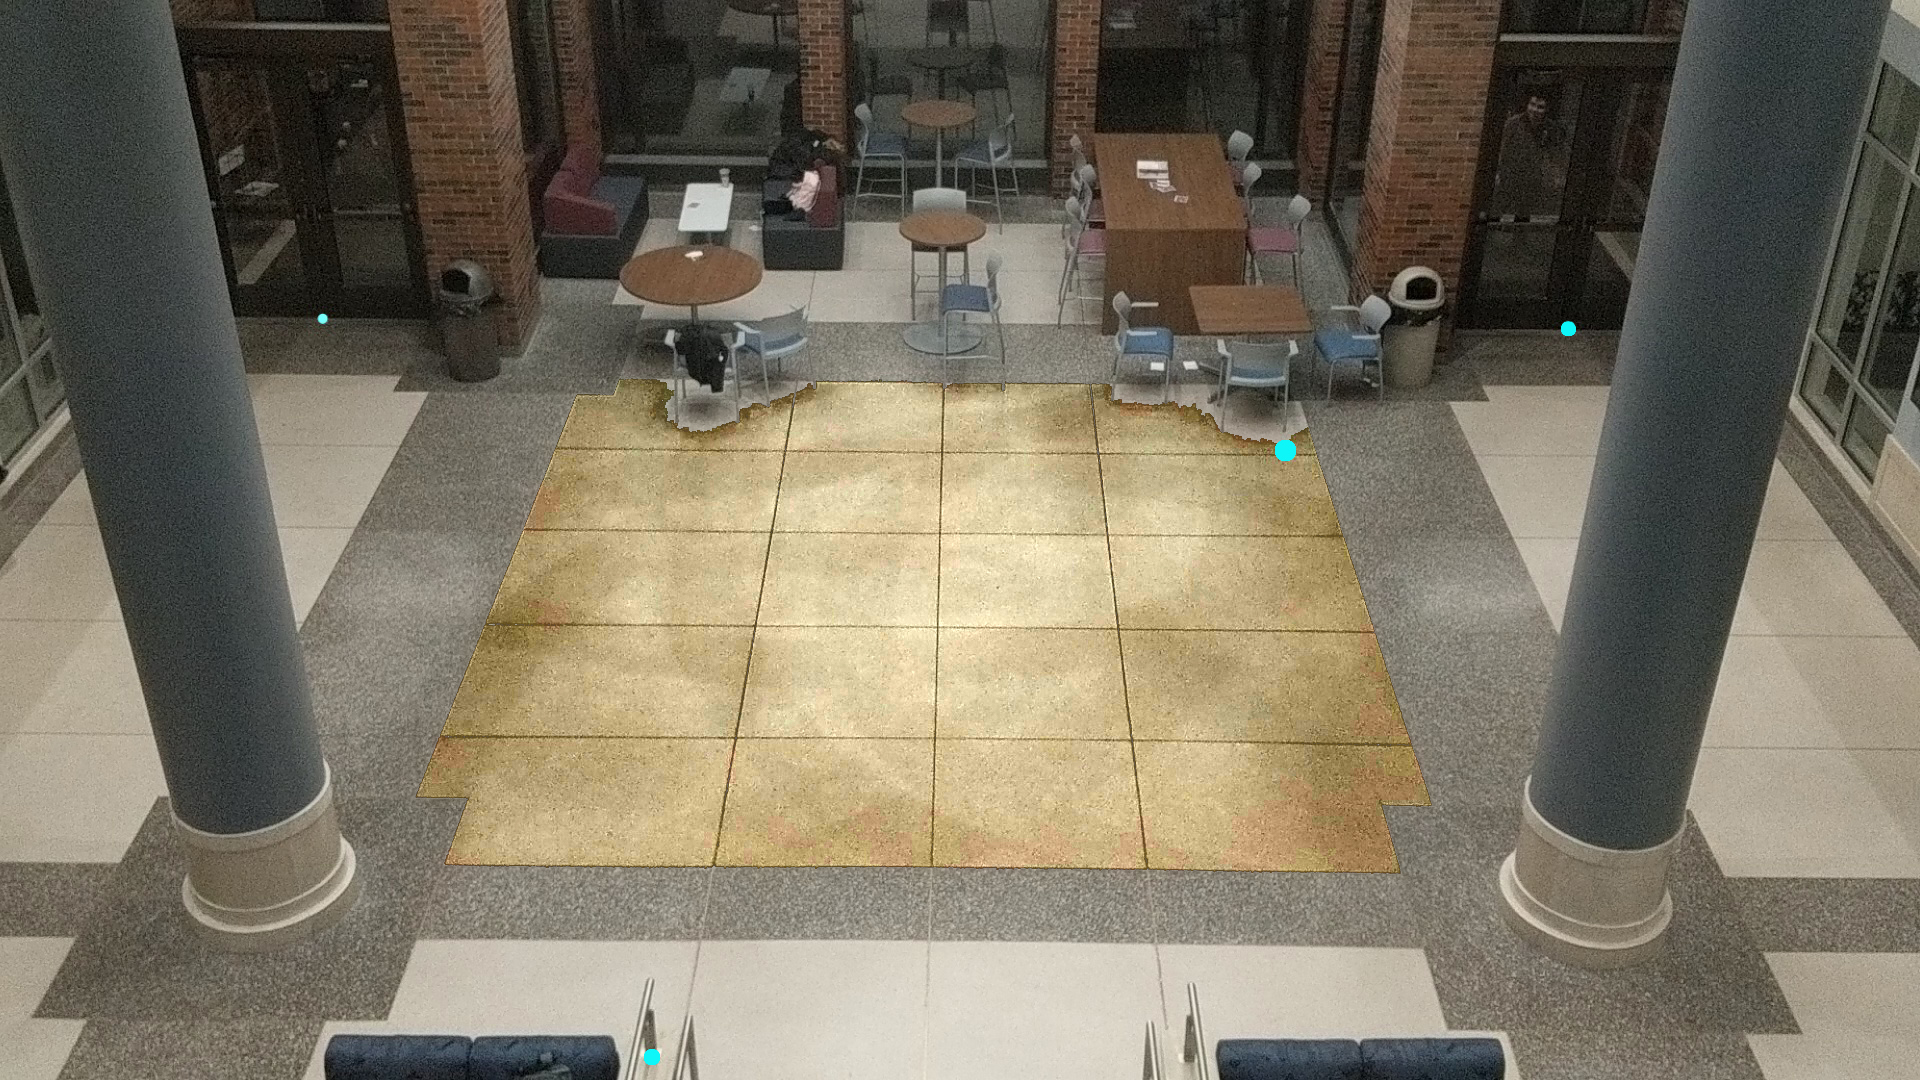
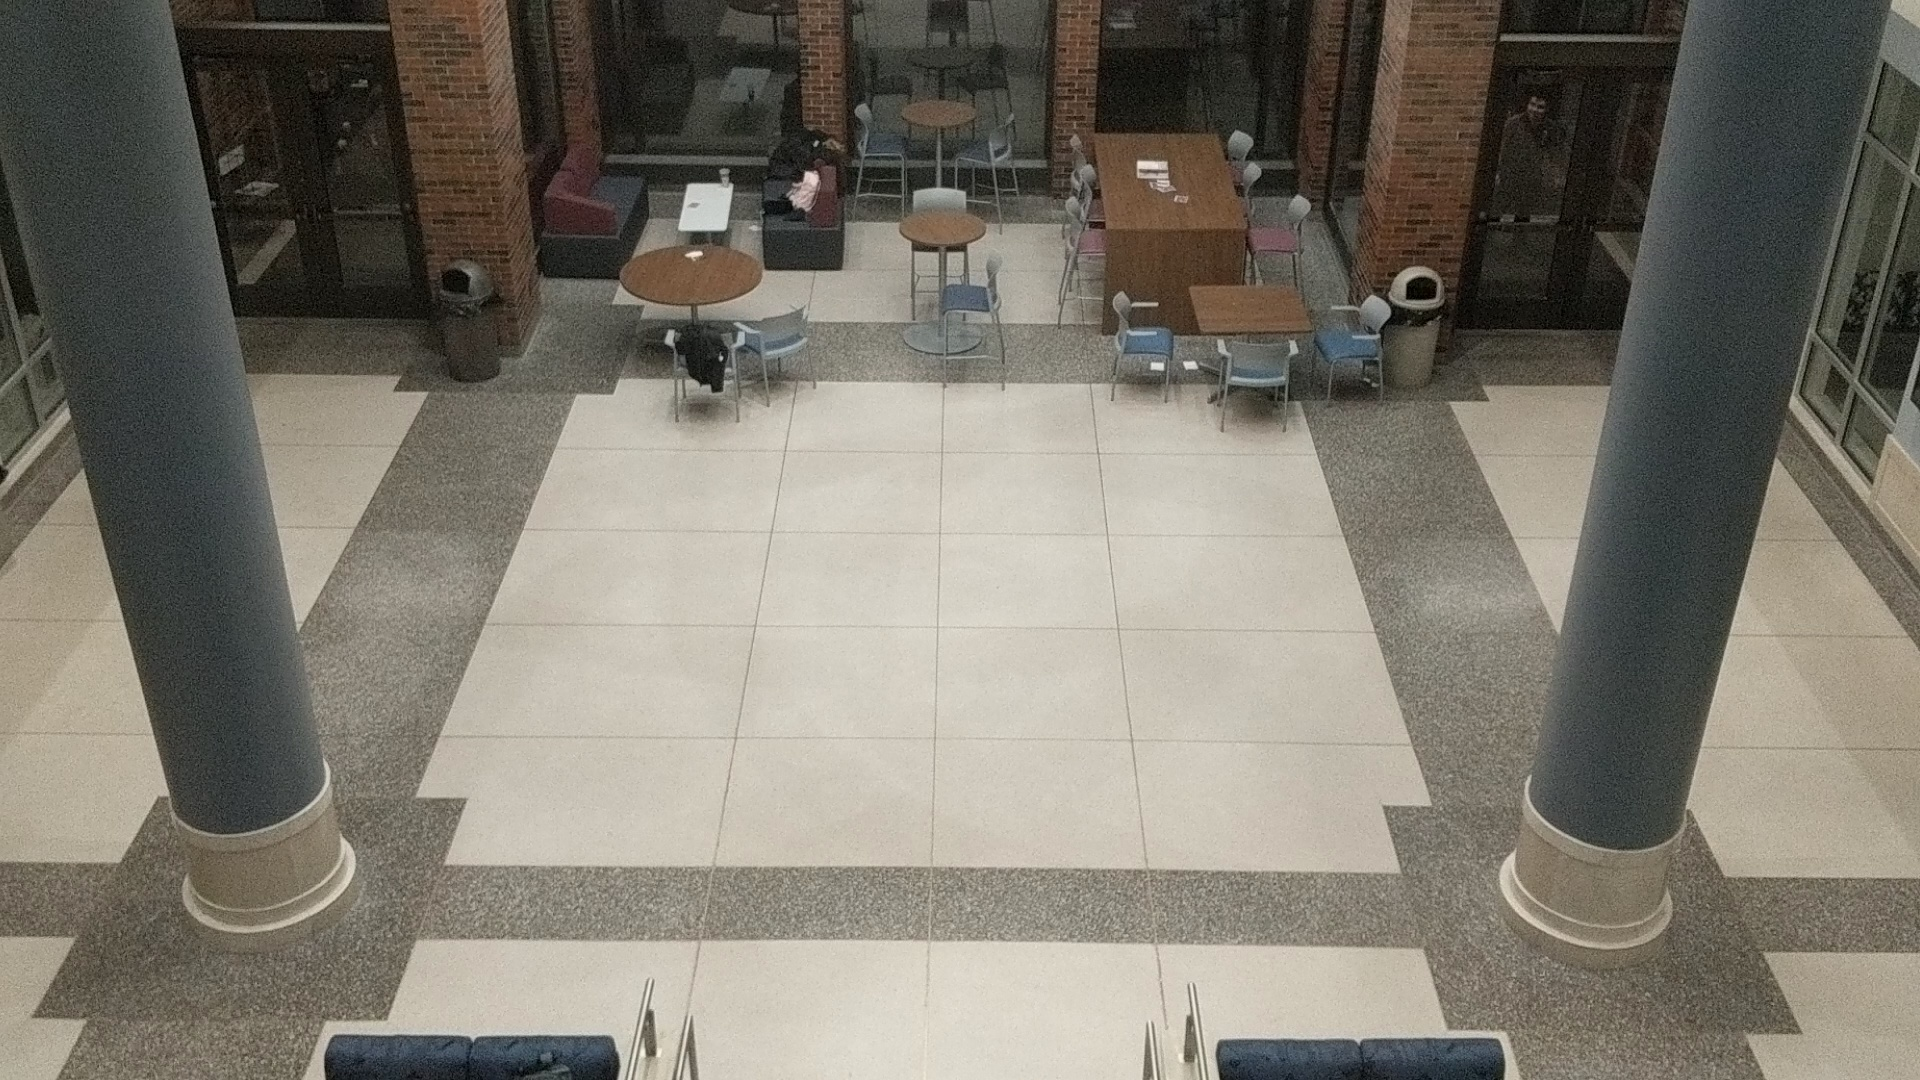
new coordinate extractor

Changed region(s): [[0.2188, 0.3361, 0.75, 0.825]]

diff --git a/new_msee_data/mapping_2d.py b/new_msee_data/mapping_2d.py
@@ -1,112 +1,56 @@
 import numpy as np
 import cv2
 import operator
+from tqdm import tqdm
 
 def coord_extraction (img):
-    '''
-    This function takes in an image with blue reference points. It filters out all pixels with the color blue 
-    and then group those points by x-coordinates. It returns the average x,y value of each group as a set of 
-    reference points
-    '''
-    # Load the image
+    coord = []
+    def click(event, x, y, flags, param):
+
+        if event == cv2.EVENT_LBUTTONDBLCLK:
+            coord.append([x,y])
+
     image = cv2.imread(img)
-    width = image.shape[1]
     height= image.shape[0]
-    if width < 200 or height < 200:
-        resize_factor = 10
-        dwidth = int(width*resize_factor)
-        dheight= int(height*resize_factor)
-        dim = (dwidth,dheight)
-        resized = cv2.resize(image,dim)
-        hsv = cv2.cvtColor(resized, cv2.COLOR_BGR2HSV)
-    else:
-        hsv = cv2.cvtColor(image, cv2.COLOR_BGR2HSV)
-
-    # Filter blue color
-    lower_blue = np.array([35, 140, 60])
-    upper_blue = np.array([255, 255, 180])
-    mask = cv2.inRange(hsv, lower_blue, upper_blue)  
-    coord=cv2.findNonZero(mask)
-
-    if width < 200 or height < 200:
-        res = cv2.bitwise_and(resized,resized, mask= mask)
-    else:
-        res = cv2.bitwise_and(image,image, mask= mask)
-
-    x_coordinate = np.array([])
-    y_coordinate = np.array([])
-
-    # Put all coordinates that are blue in a list
-    for pt in coord:
-        x,y = np.split(pt[0],2)
-        x_coordinate = np.append(x_coordinate,x[0])
-        y_coordinate = np.append(y_coordinate,y[0])
-
-    coord_list = []
-    for i in range (0,x_coordinate.size):
-        coord_list.append((x_coordinate[i],y_coordinate[i]))
-
-    coord_list.sort(key = operator.itemgetter(0))
-
-    # Group the coordinates
-    x_coordinate = []
-    y_coordinate = []
-    for pt in coord_list:
-        x,y = pt
-        x_coordinate.append(x)
-        y_coordinate.append(y)
-
-    x_coord = [[]]
-    x_coord[0].append(x_coordinate[0])
-    axis_value = 0
-
-    for i in range(1,len(x_coordinate)):
-        if np.abs(x_coordinate[i] - x_coordinate[i-1]) >= 100:
-            x_coord.append([])
-            axis_value += 1
-        x_coord[axis_value].append(x_coordinate[i])
-
-    y_coord = [[]]
-    y_coord[0].append(y_coordinate[0])
-    axis_value = 0
-    incr = 1
-
-    for j in range(1,len(y_coordinate)):
-        if incr == len(x_coord[axis_value]):
-            y_coord.append([])
-            axis_value += 1
-            incr = 0
-        y_coord[axis_value].append(y_coordinate[j])
-        incr += 1
-
-    pt_x = []
-    pt_y = []
-
-    # Calculate average of x/y values of each group
-    for x in x_coord:
-        if width < 200 or height < 200:
-            mean = np.mean(x)
-            mean = int(mean/10)
-        else:
-            mean = int(np.mean(x))
-        pt_x.append(mean)
-
-    for y in y_coord:
-        if width < 200 or height < 200:
-            mean = np.mean(y)
-            mean = int(mean/10)
-        else:
-            mean = int(np.mean(y))
-        pt_y.append(mean)
+    width = image.shape[1]
+    resize_factor = 1920/width if 1920/width < 1080/height else 1080/height
+    dwidth = int(width*resize_factor)
+    dheight= int(height*resize_factor)
+    dim = (dwidth,dheight)
+    resized = cv2.resize(image,dim)
 
 
-    pts = np.stack((pt_x, pt_y), axis=-1)
+    clone = resized.copy()
+    winname = 'Press ESC to exit; Press R to reload; Double Click to Select Reference Points'
+    cv2.namedWindow(winname)
+    cv2.setMouseCallback(winname,click)
+
+    while True:
+        cv2.imshow(winname,resized)
+        #cv2.imshow(winname,image)
+        key = cv2.waitKey(1) & 0xFF
+
+        if key == ord('r'):
+            image = clone.copy()
+            coord= []
+        elif key == 27:
+            break
+
+    cv2.destroyAllWindows()
+
+    coord = np.asarray(coord)
+    coord = coord / resize_factor
+    pts = []
+    for i in coord:
+        pts.append(np.around(i))
+    pts = np.asarray(pts)
+
     return pts
 
 def transform_2d(frame_data):
 	#Camera and floor plan hard coded points
 	camera_pts = coord_extraction('camera_reference.jpg')
-	fl_plan_pts = coord_extraction('2d_reference.jpg')
+	fl_plan_pts = coord_extraction('floor_plan.jpg')
 
 	#Open camera and floor plan
 	cam_img = cv2.imread('00000.jpg',cv2.IMREAD_COLOR)
@@ -120,7 +64,7 @@ def transform_2d(frame_data):
 	c = 1
 	img_array = []
 
-	for frame in frame_data:
+	for frame in tqdm(frame_data):
 		for data in frame:
 			#pt is the point to 2D map
 			pt = np.array([[data[0],data[1]]], dtype='float32')
@@ -146,7 +90,7 @@ def transform_2d(frame_data):
 		fl_plan_img = cv2.imread('floor_plan.jpg',cv2.IMREAD_COLOR)
 		c=c+1
 	video = cv2.VideoWriter('2d_proj_vid.avi',cv2.VideoWriter_fourcc(*'DIVX'),15,size)
-	for i in img_array:
+	for i in tqdm(img_array):
 		video.write(i)
 	video.release()
 
